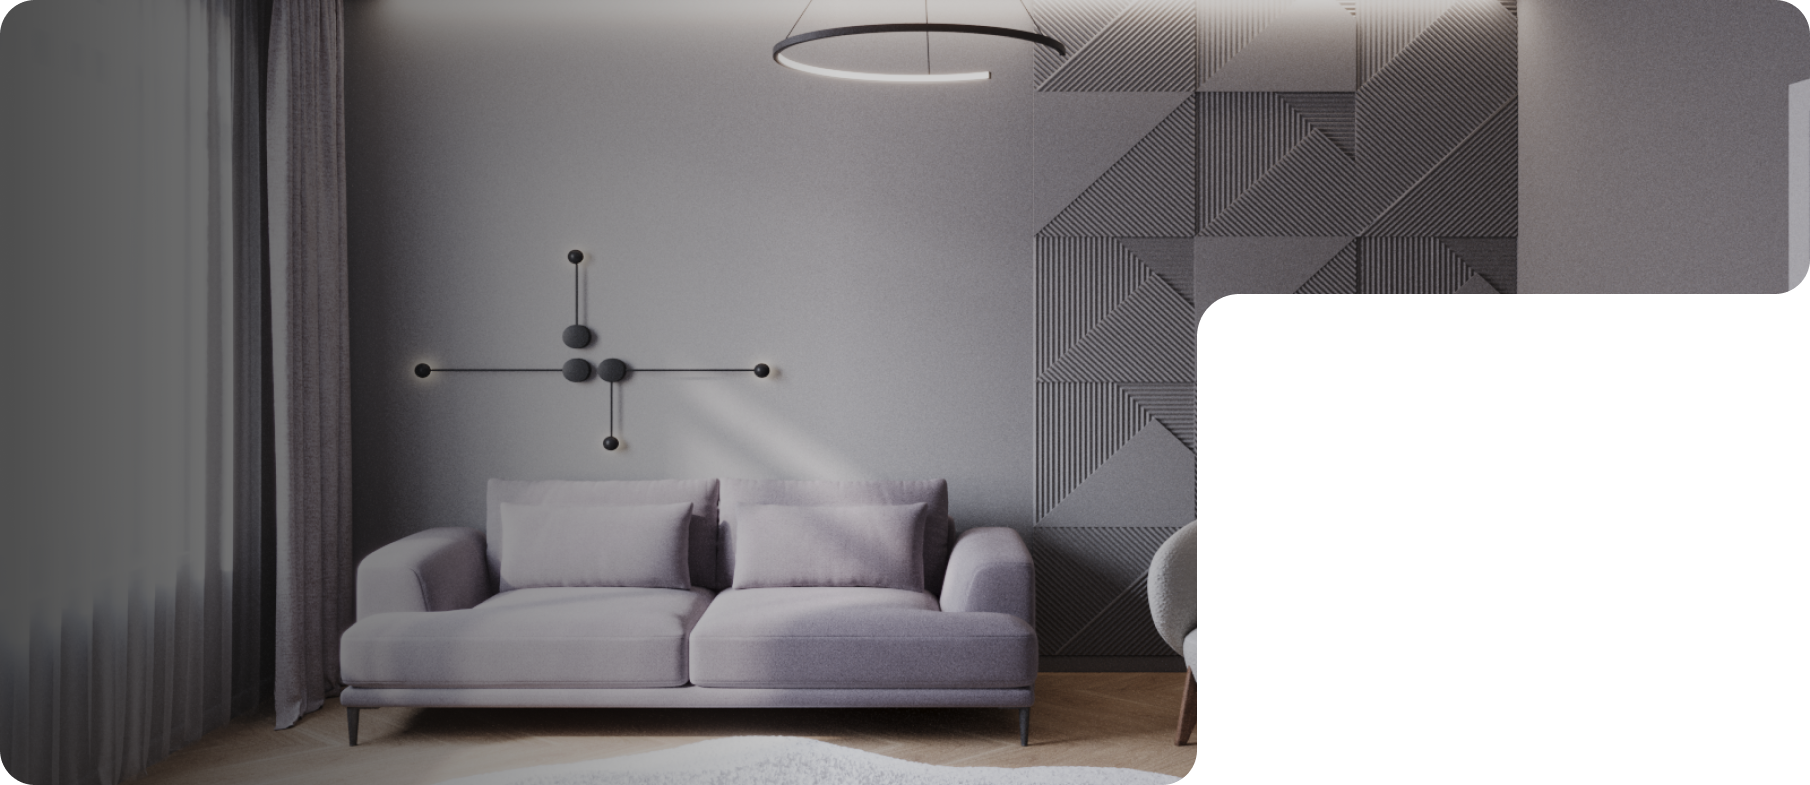
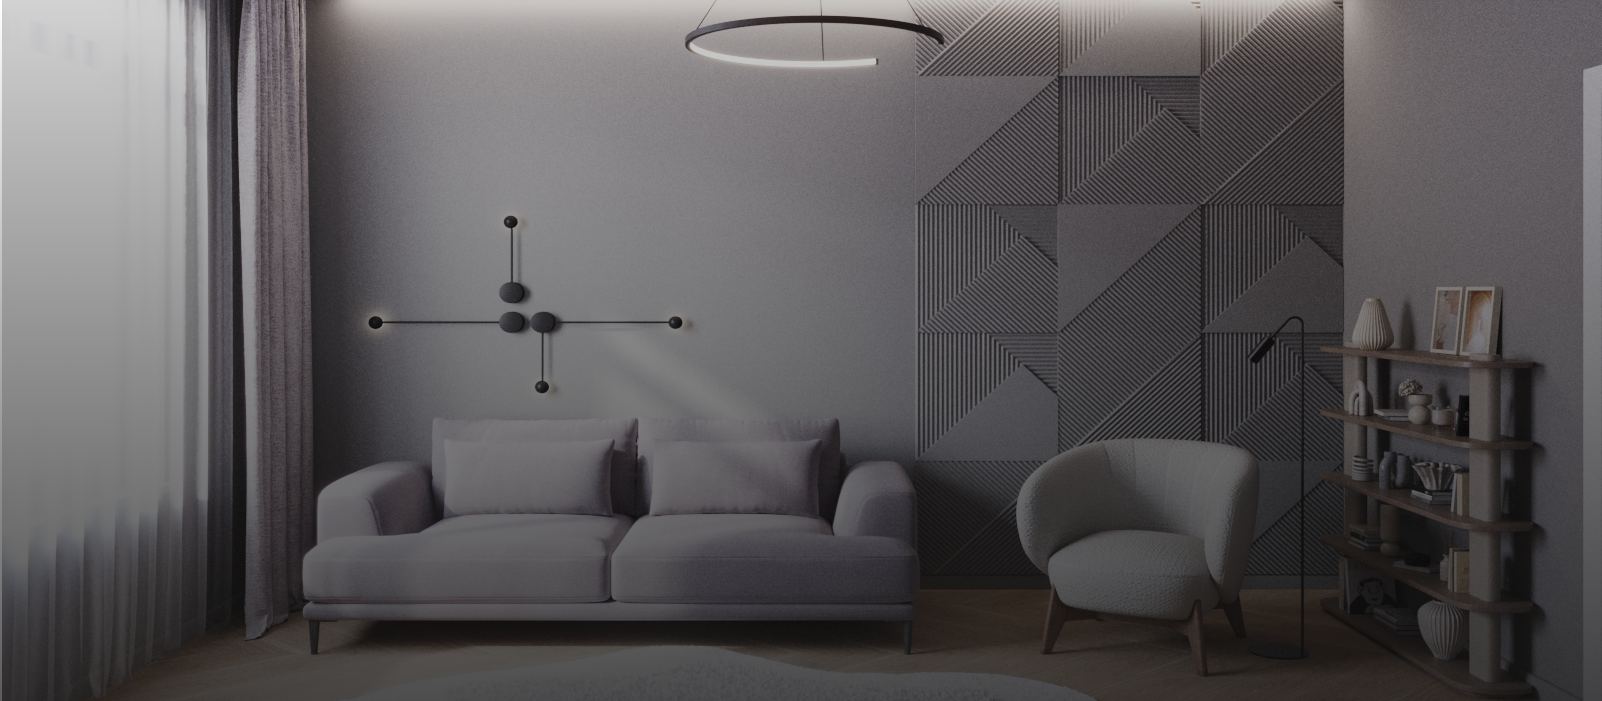
fix building-houses, apartment-renovation/block_1.vue, apply prettier, add title-boxing global style

diff --git a/frontend/components/building-houses/block_1.vue b/frontend/components/building-houses/block_1.vue
@@ -11,17 +11,17 @@ const { width } = useViewport()
       <SharedBreadCrumbs class="top-10 z-10 hidden lg:absolute lg:block" />
       <img
         class="radius-glob max-h-[700px] w-full object-cover"
-        src="/images/home/package-comfort.png"
+        src="/images/building-houses/block_1.png"
         alt="background"
       />
-      <h1 class="text:2xl absolute bottom-10 left-10 font-bold text-white xl:text-4xl">
+      <h1 class="title-boxing">
         Строительство домов
-          <br />
-          под ключ по готовым
-          <br />
-          проектам и с
-          <br />
-          фиксированной ценой
+        <br />
+        под ключ по готовым
+        <br />
+        проектам и с
+        <br />
+        фиксированной ценой
       </h1>
     </div>
 
@@ -29,15 +29,7 @@ const { width } = useViewport()
       class="black-box-wrap bottom-0 right-0 block w-full pl-0 pt-0 lg:absolute lg:w-[initial] lg:pl-8 lg:pt-8"
     >
       <div class="black-box w-full">
-        <h3 class="text:2xl mb-4 font-bold text-white xl:text-3xl">
-          Заселитесь в
-          <br />
-          квартиру мечты с
-          <br />
-          мебелью в течение
-          <br />
-          3-х месяцев
-        </h3>
+        <h3 class="bb-title">Заселитесь в квартиру мечты с мебелью в течение 3-х месяцев</h3>
         <UButton class="mt-auto" :to="hrefCalculater" size="custom" block
           >Отлайн калькулятор</UButton
         >
@@ -88,8 +80,36 @@ $radius: 35px;
   border-radius: $radius;
   color: var(--c-white);
   width: 35em;
-  @media (max-width: 1024px) {
+  @media (max-width: 1025px) {
     width: initial;
+  }
+  @media (max-width: 600px) {
+    padding: 35px;
+  }
+  @media (max-width: 450px) {
+    padding: 30px;
+  }
+
+  .bb-title {
+    font-size: 30px;
+    margin-bottom: 1rem;
+    font-weight: bold;
+    color: white;
+    width: 75%;
+
+    @media (max-width: 1100px) {
+      font-size: 24px;
+      margin-bottom: 1.5rem;
+      width: 80%;
+    }
+
+    @media (max-width: 1030px) {
+      width: 100%;
+    }
+
+    @media (max-width: 600px) {
+      font-size: 16px;
+    }
   }
 }
 </style>

diff --git a/frontend/components/apartment-renovation/block_1.vue b/frontend/components/apartment-renovation/block_1.vue
@@ -11,10 +11,10 @@ const { width } = useViewport()
       <SharedBreadCrumbs class="top-10 z-10 hidden lg:absolute lg:block" />
       <img
         class="radius-glob max-h-[700px] w-full object-cover"
-        src="/images/home/package-comfort.png"
+        src="/images/apartment-renovation/block_1.png"
         alt="background"
       />
-      <h1 class="text:2xl absolute bottom-10 left-10 font-bold text-white xl:text-4xl">
+      <h1 class="title-boxing">
         Ремотн квартир
         <br />
         под ключ по готовым
@@ -29,15 +29,7 @@ const { width } = useViewport()
       class="black-box-wrap bottom-0 right-0 block w-full pl-0 pt-0 lg:absolute lg:w-[initial] lg:pl-8 lg:pt-8"
     >
       <div class="black-box w-full">
-        <h3 class="text:2xl mb-4 font-bold text-white xl:text-3xl">
-          Заселитесь в
-          <br />
-          квартиру мечты с
-          <br />
-          мебелью в течение
-          <br />
-          3-х месяцев
-        </h3>
+        <h3 class="bb-title">Заселитесь в квартиру мечты с мебелью в течение 3-х месяцев</h3>
         <UButton class="mt-auto" :to="hrefCalculater" size="custom" block
           >Отлайн калькулятор</UButton
         >
@@ -88,17 +80,36 @@ $radius: 35px;
   border-radius: $radius;
   color: var(--c-white);
   width: 35em;
-  @media (max-width: 1024px) {
+  @media (max-width: 1025px) {
     width: initial;
   }
-  /* h3 {
-    font-size: 25px;
-    font-weight: 500;
-    line-height: 40px;
-    margin-bottom: 10px;
-    @media (max-width: 1500px) {
-      font-size: 30px;
+  @media (max-width: 600px) {
+    padding: 35px;
+  }
+  @media (max-width: 450px) {
+    padding: 30px;
+  }
+
+  .bb-title {
+    font-size: 30px;
+    margin-bottom: 1rem;
+    font-weight: bold;
+    color: white;
+    width: 75%;
+
+    @media (max-width: 1100px) {
+      font-size: 24px;
+      margin-bottom: 1.5rem;
+      width: 80%;
     }
-  } */
+
+    @media (max-width: 1030px) {
+      width: 100%;
+    }
+
+    @media (max-width: 600px) {
+      font-size: 16px;
+    }
+  }
 }
 </style>

diff --git a/frontend/components/_shared/header-signed.vue b/frontend/components/_shared/header-signed.vue
@@ -38,7 +38,6 @@ const handleClickDetails = () => {
     openDetails.value = true
   }
 }
-
 </script>
 
 <template>
@@ -85,12 +84,14 @@ const handleClickDetails = () => {
       </div>
     </div>
   </header>
-  <header :class="[
-    'box-small',
-    'margin-glob',
-    { 'opened-navigation': openNavigation },
-    { 'opened-details': openDetails }
-  ]">
+  <header
+    :class="[
+      'box-small',
+      'margin-glob',
+      { 'opened-navigation': openNavigation },
+      { 'opened-details': openDetails }
+    ]"
+  >
     <div class="first-line">
       <NuxtLink class="logo-container" :to="hrefLogo">
         <img class="logo hover" src="/icons/logo-without-text.svg" alt="logo" />
@@ -105,11 +106,21 @@ const handleClickDetails = () => {
             Халитов
           </b>
         </p>
-        <img class="arrow hover" @click="handleClickDetails"
-          :src="openDetails ? '/icons/arrow-black-up.svg' : '/icons/arrow-white-down.svg'" alt="arrow" />
+        <img
+          class="arrow hover"
+          @click="handleClickDetails"
+          :src="openDetails ? '/icons/arrow-black-up.svg' : '/icons/arrow-white-down.svg'"
+          alt="arrow"
+        />
       </div>
-      <img class="toggle-navigation hover" :src="openNavigation ? '/icons/close-button.svg' : '/icons/burger.svg'"
-        alt="close-button" draggable="false" loading="eager" @click="handleClickNavigation" />
+      <img
+        class="toggle-navigation hover"
+        :src="openNavigation ? '/icons/close-button.svg' : '/icons/burger.svg'"
+        alt="close-button"
+        draggable="false"
+        loading="eager"
+        @click="handleClickNavigation"
+      />
     </div>
 
     <NuxtLink class="make-order hover" :to="hrefMakeOrder"> Оформить заказ </NuxtLink>
@@ -417,7 +428,8 @@ const handleClickDetails = () => {
       gap: 10px;
       border-radius: 20px;
 
-      .text {}
+      .text {
+      }
     }
 
     .bell-container {

diff --git a/frontend/components/_shared/arrow_hover.vue b/frontend/components/_shared/arrow_hover.vue
@@ -2,17 +2,27 @@
 const props = defineProps<{
   hovered: boolean
 }>()
-
 </script>
 
 <template>
   <svg width="51" height="50" viewBox="0 0 51 50" fill="none" xmlns="http://www.w3.org/2000/svg">
-    <rect :class="['circle', { 'circle-hover': hovered }, props.hovered ? 'fill-white' : 'fill-black']" x="0.430664"
-      y="50" width="50" height="49.9439" rx="24.9719" transform="rotate(-90 0.430664 50)" />
-    <path :class="['arrow', { 'arrow-hover': hovered }, props.hovered ? 'fill-black' : 'fill-white']"
-      d="M18.1777 19.2411L31.4587 32.5222L32.9023 31.0786L19.6213 17.7975L18.1777 19.2411Z" />
-    <path :class="['arrow', { 'arrow-hover': hovered }, props.hovered ? 'fill-black' : 'fill-white']"
-      d="M25.007 17.4779L25.007 19.5195L19.9439 19.5195L19.9439 24.5826L17.9023 24.5826L17.9023 17.4779L25.007 17.4779Z" />
+    <rect
+      :class="['circle', { 'circle-hover': hovered }, props.hovered ? 'fill-white' : 'fill-black']"
+      x="0.430664"
+      y="50"
+      width="50"
+      height="49.9439"
+      rx="24.9719"
+      transform="rotate(-90 0.430664 50)"
+    />
+    <path
+      :class="['arrow', { 'arrow-hover': hovered }, props.hovered ? 'fill-black' : 'fill-white']"
+      d="M18.1777 19.2411L31.4587 32.5222L32.9023 31.0786L19.6213 17.7975L18.1777 19.2411Z"
+    />
+    <path
+      :class="['arrow', { 'arrow-hover': hovered }, props.hovered ? 'fill-black' : 'fill-white']"
+      d="M25.007 17.4779L25.007 19.5195L19.9439 19.5195L19.9439 24.5826L17.9023 24.5826L17.9023 17.4779L25.007 17.4779Z"
+    />
   </svg>
 </template>
 

diff --git a/frontend/components/cabinet/main/block_3.vue b/frontend/components/cabinet/main/block_3.vue
@@ -30,11 +30,17 @@ const showToWalletButton = !route.fullPath.includes('/wallet')
         </div>
       </div>
       <div class="wrap-buttons">
-        <UButton :class="[showToWalletButton ? 'flex-grow' : 'ms-auto', 'justify-center']">Вывести средства</UButton>
-        <UButton v-if="showToWalletButton" to="/cabinet/wallet" class="flex-grow justify-center" color="white"
-          variant="outline">Перейти в кошелёк
+        <UButton :class="[showToWalletButton ? 'flex-grow' : 'ms-auto', 'justify-center']"
+          >Вывести средства</UButton
+        >
+        <UButton
+          class="flex-grow justify-center"
+          v-if="showToWalletButton"
+          to="/cabinet/wallet"
+          color="white"
+          variant="outline"
+          >Перейти в кошелёк
         </UButton>
-
 
         <!-- <SharedButton class="button-wallet" fillOrange>Вывести средства</SharedButton>
         <SharedButton class="button-wallet">Перейти в кошелёк</SharedButton> -->

diff --git a/frontend/components/cabinet/main/block_7.vue b/frontend/components/cabinet/main/block_7.vue
@@ -1,6 +1,4 @@
-<script setup lang="ts">
-
-</script>
+<script setup lang="ts"></script>
 
 <template>
   <article class="margin-b-glob article radius-glob">
@@ -8,10 +6,15 @@
       <span class="orange"> Есть вопросы? </span> <br />
       Обратитесь в нашу службу поддержки
     </h2>
-    <div class="buttons h-max mt-auto">
-      <UButton class="flex-grow justify-center lg:w-[initial] w-full" color="black">Задать вопрос</UButton>
-      <UButton class="flex-grow justify-center lg:w-[initial] w-full" color="white" variant="outline">Найти ответ на
-        вопрос в FAQ
+    <div class="buttons mt-auto h-max">
+      <UButton class="w-full flex-grow justify-center lg:w-[initial]" color="black"
+        >Задать вопрос</UButton
+      >
+      <UButton
+        class="w-full flex-grow justify-center lg:w-[initial]"
+        color="white"
+        variant="outline"
+        >Найти ответ на вопрос в FAQ
       </UButton>
     </div>
   </article>

diff --git a/frontend/components/cabinet/wallet/block_1.vue b/frontend/components/cabinet/wallet/block_1.vue
@@ -29,7 +29,10 @@ const statusMap = (status: string) => {
 
     <div class="radius-glob table-wrap" v-if="items.length > 0">
       <div class="table">
-        <div v-for="(item, index) in items" :class="['row', { 'is-not-last': index !== items.length - 1 }]">
+        <div
+          v-for="(item, index) in items"
+          :class="['row', { 'is-not-last': index !== items.length - 1 }]"
+        >
           <div class="operation-type">
             <div class="operation-type-label">Операция:</div>
             <div class="operation-type-value">{{ item.operationType }}</div>
@@ -49,7 +52,6 @@ const statusMap = (status: string) => {
             <div class="status-label">Статус:</div>
             <div class="status-value">{{ item.status }}</div>
           </div>
-
 
           <UButton class="justify-center" color="white" variant="outline">Скачать чек</UButton>
         </div>

diff --git a/frontend/components/cabinet/main/block_2.vue b/frontend/components/cabinet/main/block_2.vue
@@ -1,6 +1,4 @@
-<script setup lang="ts">
-
-</script>
+<script setup lang="ts"></script>
 
 <template>
   <section class="margin-b-glob block">
@@ -14,11 +12,12 @@
             <p class="link hover">ref.fix-remont.ru/8GTS7LX82390</p>
             <hr />
           </div>
-          <UButton color="black" class="self-end flex-grow h-max justify-center">Скопировать ссылку</UButton>
-
+          <UButton class="h-max flex-grow justify-center self-end" color="black"
+            >Скопировать ссылку</UButton
+          >
         </div>
       </div>
-      <div class=" box2 radius-glob">
+      <div class="box2 radius-glob">
         <div class="wrapper">
           <img class="qr-code" src="/images/header-signed/qr-code.png" alt="qr-code" />
           <p>Мой QR-код для приглашения</p>

diff --git a/frontend/assets/css/global.css b/frontend/assets/css/global.css
@@ -120,3 +120,46 @@ a {
   line-height: 24px;
   margin-top: 2em;
 }
+
+.title-boxing {
+  font-size: 45px;
+  font-weight: bold;
+  line-height: 60px;
+  color: white;
+  position: absolute;
+  bottom: 5rem;
+  left: 5rem;
+
+  @media (max-width: 1500px) {
+    font-size: 40px;
+    line-height: 50px;
+    bottom: 4rem;
+    left: 4rem;
+  }
+
+  @media (max-width: 1300px) {
+    font-size: 35px;
+    line-height: 45px;
+    bottom: 4rem;
+    left: 4rem;
+  }
+
+  @media (max-width: 1150px) {
+    font-size: 30px;
+    line-height: 40px;
+    bottom: 2rem;
+    left: 2rem;
+  }
+
+  @media (max-width: 600px) {
+    font-size: 20px;
+    line-height: 30px;
+  }
+
+  @media (max-width: 450px) {
+    font-size: 16px;
+    line-height: 25px;
+    bottom: 1rem;
+    left: 1rem;
+  }
+}
